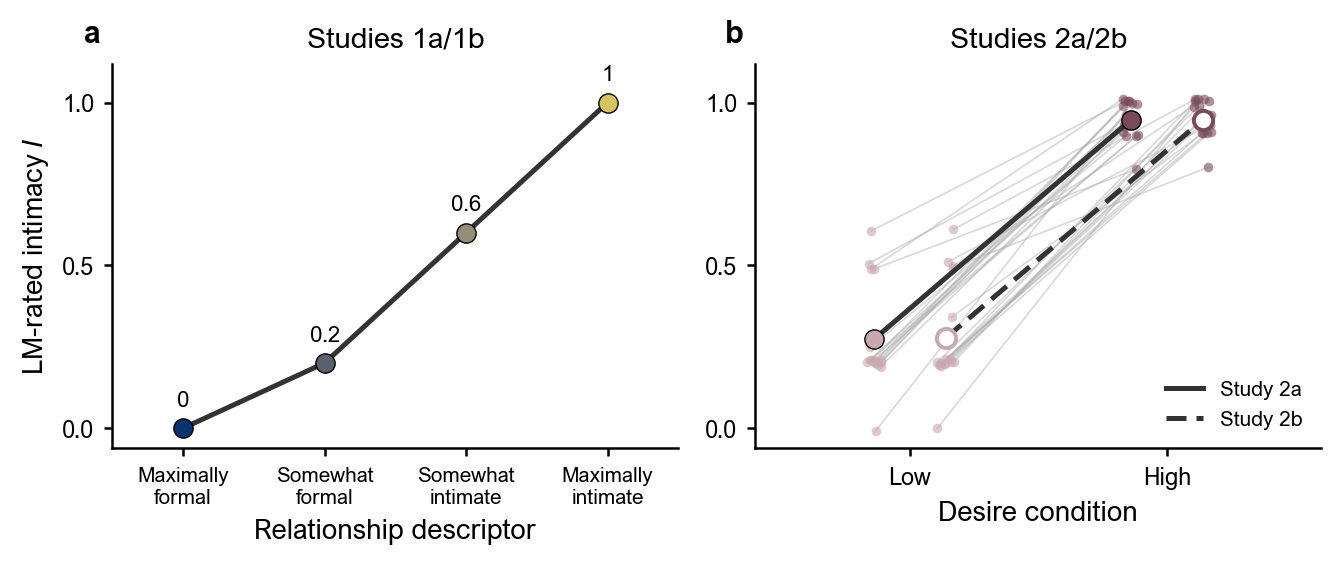
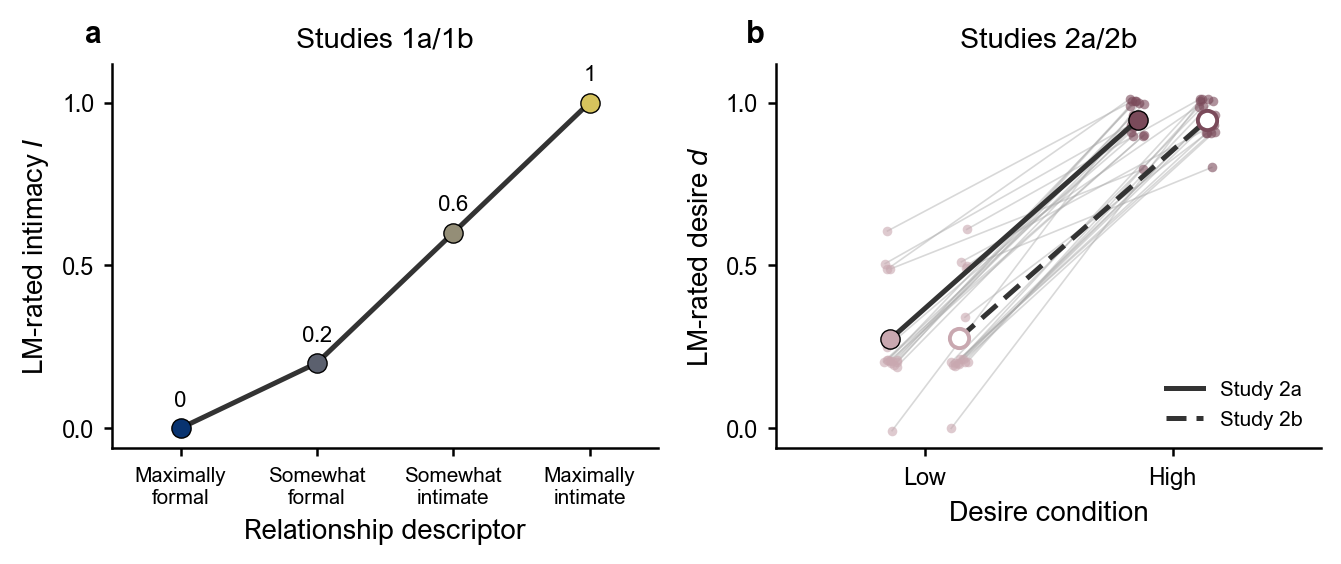
wire SI LM figures into journal sync + add desire y-label
add all 12 si_lm_* PDFs to JOURNAL_FIGURES sync map; label the desire panel of the manipulation-checks figure

diff --git a/model/lm/plot_si_validation.py b/model/lm/plot_si_validation.py
@@ -310,6 +310,7 @@ def fig_manipulation_checks(canon):
     ax.set_xticks([0, 1])
     ax.set_xticklabels(["Low", "High"])
     ax.set_xlabel("Desire condition")
+    ax.set_ylabel("LM-rated desire $d$")
     ax.set_xlim(-0.6, 1.6)
     ax.set_title("Studies 2a/2b")
     panel_label(ax, "b")
